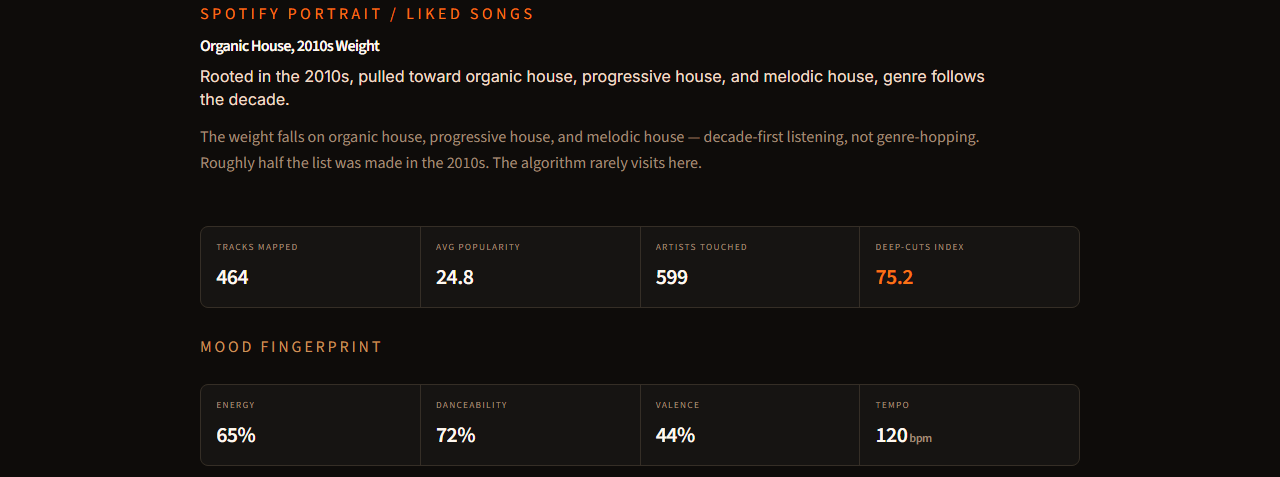
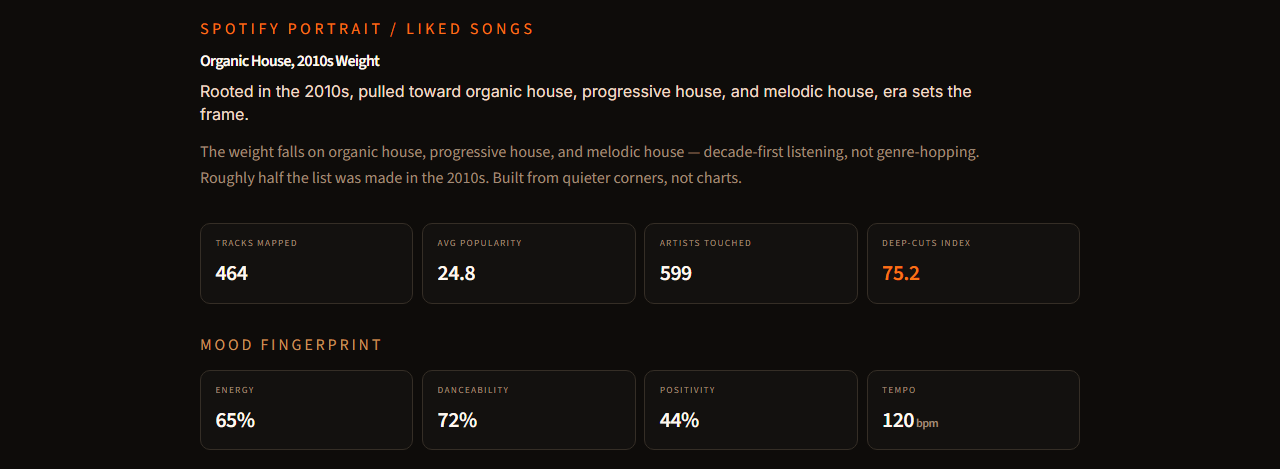
Polish dashboard layout and README assets for readability.
Stack structure charts full-width, simplify treemap to top-10+Other with ember palette, refine stat cards and spacing, and split README screenshots into distinct composition/structure views.

diff --git a/app.py b/app.py
@@ -20,9 +20,10 @@ DATA_DIR = Path(__file__).parent / "data"
 DEFAULT_CSV = DATA_DIR / "Liked_Songs.csv"
 SAMPLE_CSV = DATA_DIR / "sample_liked_songs.csv"
 PLAYLISTS_DIR = DATA_DIR / "playlists"
-TOP_GENRES = 18
-CHART_HEIGHT = 430
-SMALL_CHART_HEIGHT = 330
+TOP_GENRES = 10
+CHART_HEIGHT = 400
+SMALL_CHART_HEIGHT = 360
+STRUCTURE_CHART_HEIGHT = 280
 
 # Editorial Ember: orange heat on warm charcoal, amber for structure.
 BG = "#0e0c0a"
@@ -35,32 +36,16 @@ ACCENT_DEEP = "#7c2d12"
 ACCENT_GLOW = "#f97316"
 AMBER = "#c9925a"
 PEACH = "#f0dcc8"
-PETROL = "#123338"
-PETROL_LIGHT = "#2f5d62"
-PLUM = "#34243a"
 CREAM = "#fff8f0"
 BAR_LOW = "#431407"
 BAR_HIGH = "#ea580c"
-# Deep mixed palette: ember, tobacco, petrol, slate, plum.
 GENRE_PALETTE = [
-    "#431407",
-    "#123338",
     "#7c2d12",
-    "#1f2937",
     "#9a3412",
-    "#243b35",
-    "#34243a",
-    "#a0522d",
-    "#172a2f",
-    "#702500",
-    "#2b3645",
-    "#571f0a",
-    "#2f3f3a",
-    "#4b2a3d",
     "#bf4f1f",
-    "#162235",
     "#d4622a",
-    "#1d3f45",
+    "#ea580c",
+    "#f97316",
 ]
 
 PAGE_CSS = f"""
@@ -74,15 +59,18 @@ PAGE_CSS = f"""
 }}
 .block-container {{
     font-family: Inter, Segoe UI, system-ui, sans-serif;
-    padding-top: 2.5rem;
+    padding-top: 1.75rem;
     max-width: 1040px;
 }}
 #MainMenu, footer, header[data-testid="stHeader"] {{ display: none; }}
 [data-testid="stSidebar"], [data-testid="collapsedControl"] {{ display: none; }}
+div[data-testid="stVerticalBlock"] > div[data-testid="stVerticalBlock"] {{
+    gap: 0.4rem;
+}}
 .control-hint {{
     color: {MUTED};
-    font-size: 0.82rem;
-    margin: 0 0 1.25rem 0;
+    font-size: 0.78rem;
+    margin: 0.35rem 0 1rem 0;
 }}
 .library-summary {{
     color: {MUTED};
@@ -124,17 +112,13 @@ PAGE_CSS = f"""
     font-size: 0.98rem;
     line-height: 1.65;
     max-width: 52rem;
-    margin: 0 0 1.55rem 0;
+    margin: 0 0 1.75rem 0;
 }}
 .stat-strip {{
     display: grid;
     grid-template-columns: repeat(4, minmax(0, 1fr));
-    gap: 1px;
-    background: {BORDER};
-    border: 1px solid {BORDER};
-    border-radius: 8px;
-    overflow: hidden;
-    margin: 1.55rem 0 1.35rem 0;
+    gap: 0.55rem;
+    margin: 0 0 1.5rem 0;
 }}
 @media (max-width: 720px) {{
     .block-container {{
@@ -180,7 +164,9 @@ PAGE_CSS = f"""
 }}
 .stat {{
     background: rgba(20, 18, 16, 0.92);
-    padding: 0.8rem 0.95rem;
+    border: 1px solid {BORDER};
+    border-radius: 10px;
+    padding: 0.75rem 0.9rem;
 }}
 .stat-label {{
     color: {MUTED};
@@ -207,14 +193,14 @@ PAGE_CSS = f"""
     text-transform: uppercase;
     letter-spacing: 0.18em;
     color: {AMBER};
-    margin: 1.5rem 0 0.6rem 0;
+    margin: 1.75rem 0 0.75rem 0;
 }}
 [data-testid="stPlotlyChart"] {{
-    background: linear-gradient(180deg, #181512 0%, {SURFACE} 100%);
+    background: {SURFACE};
     border: 1px solid {BORDER};
-    border-radius: 8px;
-    padding: 0.2rem;
-    box-shadow: inset 0 1px 0 rgba(234, 88, 12, 0.06);
+    border-radius: 10px;
+    padding: 0.35rem;
+    margin-bottom: 0.35rem;
 }}
 .footer-note {{
     color: {MUTED};
@@ -315,7 +301,7 @@ def _mood_strip(profile) -> str:
             <div class="stat-value">{dance}%</div>
         </div>
         <div class="stat">
-            <div class="stat-label">Valence</div>
+            <div class="stat-label">Positivity</div>
             <div class="stat-value">{valence}%</div>
         </div>
         <div class="stat">
@@ -328,7 +314,7 @@ def _mood_strip(profile) -> str:
 
 def _stat_strip(profile) -> str:
     return f"""
-    <div class="stat-strip">
+    <div class="stat-strip" style="margin-top: 0.25rem;">
         <div class="stat">
             <div class="stat-label">Tracks mapped</div>
             <div class="stat-value">{profile.track_count}</div>
@@ -464,12 +450,19 @@ def _load_profile():
 
 
 def genre_treemap(profile):
-    weights = profile.genre_weights.head(TOP_GENRES)
+    weights = profile.genre_weights
     if weights.empty:
         return None
 
-    genres = weights.index.tolist()
-    counts = weights.values.tolist()
+    top = weights.head(TOP_GENRES)
+    genres = top.index.tolist()
+    counts = [int(v) for v in top.values.tolist()]
+    if len(weights) > TOP_GENRES:
+        other_count = int(weights.iloc[TOP_GENRES:].sum())
+        if other_count > 0:
+            genres.append("Other")
+            counts.append(other_count)
+
     colors = [GENRE_PALETTE[i % len(GENRE_PALETTE)] for i in range(len(genres))]
 
     fig = go.Figure(
@@ -478,21 +471,20 @@ def genre_treemap(profile):
             parents=[""] * len(genres),
             values=counts,
             branchvalues="total",
-            marker=dict(colors=colors, line=dict(color=BG, width=1.25)),
-            textfont=dict(color=CREAM, size=12, family="Segoe UI, system-ui, sans-serif"),
+            marker=dict(colors=colors, line=dict(color=BG, width=1)),
+            textfont=dict(color=CREAM, size=12, family="Inter, Segoe UI, system-ui, sans-serif"),
             texttemplate="%{label}<br>%{percentRoot:.0%}",
             textinfo="text",
             insidetextfont=dict(color=CREAM, size=12),
-            tiling=dict(pad=4),
+            tiling=dict(pad=6),
         )
     )
     fig.update_layout(
         height=CHART_HEIGHT,
-        margin=dict(t=48, l=8, r=8, b=8),
+        margin=dict(t=12, l=8, r=8, b=8),
         paper_bgcolor=SURFACE,
         plot_bgcolor=SURFACE,
-        font=dict(color=TEXT, size=12, family="Segoe UI, system-ui, sans-serif"),
-        title=dict(text="Genre composition", font=dict(size=13, color=ACCENT), x=0, xanchor="left"),
+        font=dict(color=TEXT, size=12, family="Inter, Segoe UI, system-ui, sans-serif"),
     )
     return fig
 
@@ -507,11 +499,13 @@ def era_bar(profile):
         go.Bar(
             x=buckets.index.tolist(),
             y=values,
-            marker=dict(color=_bar_fill_colors(values, "#172a2f", ACCENT), line=dict(width=0)),
+            marker=dict(color=_bar_fill_colors(values, BAR_LOW, ACCENT), line=dict(width=0)),
         )
     )
     fig.update_layout(
         **_layout(
+            height=STRUCTURE_CHART_HEIGHT,
+            margin=dict(t=40, l=12, r=12, b=48),
             paper_bgcolor=SURFACE,
             plot_bgcolor=SURFACE,
             xaxis_title=None,
@@ -522,7 +516,7 @@ def era_bar(profile):
     return _apply_axes(fig)
 
 
-def top_artists_bar(profile, limit: int = 10):
+def top_artists_bar(profile, limit: int = 8):
     artists = profile.top_artists.head(limit)
     if artists.empty:
         return None
@@ -533,15 +527,16 @@ def top_artists_bar(profile, limit: int = 10):
             x=values,
             y=artists.index.tolist(),
             orientation="h",
-            marker=dict(color=_bar_fill_colors(values, "#162235", ACCENT), line=dict(width=0)),
+            marker=dict(color=_bar_fill_colors(values, BAR_LOW, ACCENT), line=dict(width=0)),
         )
     )
     fig.update_layout(
         **_layout(
             height=SMALL_CHART_HEIGHT,
+            margin=dict(t=40, l=12, r=16, b=12),
             paper_bgcolor=SURFACE,
             plot_bgcolor=SURFACE,
-            yaxis=dict(categoryorder="total ascending"),
+            yaxis=dict(categoryorder="total ascending", automargin=True),
         )
     )
     fig.update_layout(title=dict(text=f"Top {limit} artists", font=dict(size=13, color=MUTED), x=0, xanchor="left"))
@@ -605,20 +600,17 @@ else:
     )
 
 st.markdown('<p class="section-label">Structure</p>', unsafe_allow_html=True)
-left, right = st.columns(2)
-with left:
-    artists_fig = top_artists_bar(profile)
-    if artists_fig is None:
-        st.warning("No artist data in this export.")
-    else:
-        st.plotly_chart(artists_fig, width="stretch", theme=None, config={"displayModeBar": False})
+artists_fig = top_artists_bar(profile)
+if artists_fig is None:
+    st.warning("No artist data in this export.")
+else:
+    st.plotly_chart(artists_fig, width="stretch", theme=None, config={"displayModeBar": False})
 
-with right:
-    era_fig = era_bar(profile)
-    if era_fig is None:
-        st.warning("No release dates in this export.")
-    else:
-        st.plotly_chart(era_fig, width="stretch", theme=None, config={"displayModeBar": False})
+era_fig = era_bar(profile)
+if era_fig is None:
+    st.warning("No release dates in this export.")
+else:
+    st.plotly_chart(era_fig, width="stretch", theme=None, config={"displayModeBar": False})
 
 st.markdown(
     '<p class="footer-note">Deep-cuts index = 100 minus average Spotify popularity '

diff --git a/README.md b/README.md
@@ -14,7 +14,7 @@ Upload an [Exportify](https://exportify.net) CSV and get a one-page portrait of 
 
 - Genre composition treemap
 - Release-era histogram and top artists
-- Mood fingerprint (energy, danceability, valence, tempo)
+- Mood fingerprint (energy, danceability, positivity, tempo)
 - Editorial headline and interpretation from your stats
 - Playlist picker or CSV upload
 - Optional AI portrait via Groq or local Ollama
@@ -23,9 +23,13 @@ Upload an [Exportify](https://exportify.net) CSV and get a one-page portrait of 
 
 ## Example Dashboard
 
-### Charts
+### Composition
 
-![Charts](assets/charts.png)
+![Composition](assets/composition.png)
+
+### Structure
+
+![Structure](assets/structure.png)
 
 ### Full walkthrough
 